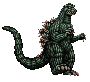
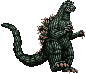
upd

Changed region(s): [[0.0, 0.0, 1.0, 1.0]]

diff --git a/final/index.js b/final/index.js
@@ -1,15 +1,5 @@
-
-
 var canvas = document.getElementById('canvas');
 var ctx = canvas.getContext('2d')
-
-
-
-/* if ( x === 1100 ) {
-    x = 0;
-} else {
-    x += 110;
-}; */
 
 var pictures  = [];
 
@@ -20,81 +10,96 @@ for ( var i = 1; i <= 12; i++ ) {
     pictures.push(sprite);
 
 }
-console.log(pictures)
-var sprite = new Image('');
-sprite.src = '1.png';
-
+var jumpPressed = false;
+var dy = 0;
  var godzilla = {
 
     frame_id : 0,
-    y_pos : 50,
+    y_pos : 80,
     time : 0
 
-    }
-var arr = [1,2,3,4]
-console.log(arr[-2])
-if ( 'abc' > 'df'){
-    console.log('true')}
-else {
-    console.log('nj')
-}
-/* function drawGodzilla(pictures) {
+    };
 
-    for ( var i = 1; i <= 6; i++ ) {
-
-
-        ctx.clearRect(0,0,canvas.width,canvas.height);
-
-        ctx.drawImage(pictures[i],0,60);
-
-    }; 
-
-    drawGodzilla(pictures) 
-
-    };*/
-time = 0;
 frame_id = 0;
 
 function moveGodzilla() {
 
     ctx.clearRect(0,0,canvas.width,canvas.height);
 
-if ( godzilla.time > 1000) {
+    if ( godzilla.time > 1000) {
 
-        godzilla.time = 0;
-    }
+            godzilla.time = 0;
+            time = 0;
+            
+        }
 
     frame_id = Math.floor(godzilla.time / 1000 * pictures.length);
-    console.log(frame_id)
-
-    ctx.drawImage(pictures[frame_id],0,godzilla.y_pos,50,70);
+   
+    ctx.drawImage(pictures[frame_id],5,godzilla.y_pos,40,60);
     
     godzilla.time +=30;
-
     
 
-};
+    if ( jumpPressed ) {
+
+        jump();
+
+    };
+
+    function jump() {
+        
+        godzilla.y_pos += dy;
+    
+        if ( godzilla.y_pos > 5 ) {
+    
+            dy -= 1;
+    
+        } else {
+    
+             dy += 1;
+
+        if( dy === 0 ) {
+
+            godzilla.y_pos = 80;
+            jumpPressed = false;
+
+        }
+             
+    
+         }
+    };
+
+}
+
+var timer; 
+           
+        
+    document.onclick = function () { 
+
+        timer = setInterval(moveGodzilla, 20); 
+        console.log('Run');
+
+    };
+
+    document.oncontextmenu = function (event) {
+        
+            clearInterval(timer);
+            return false;
+    }
+
+    var dy = 0; 
+
+    document.onkeydown = function (event) {
+    console.log(event)
+
+    if ( event.keyCode === 38 ) {
+
+            console.log('Pressed jump');
+            jumpPressed = true;
             
-        
-setInterval(moveGodzilla, 30);
-    
-document.onkeydown = function (event) {
-   
-
-   if ( event.keyCode === 38 ) {
-
-        console.log(event.keyCode)
-        
-        console.log(godzilla.y_pos)
-
-
-        godzilla.y_pos -= 1;
-
 
     }
-          
-
+            
         
-
 };
         
